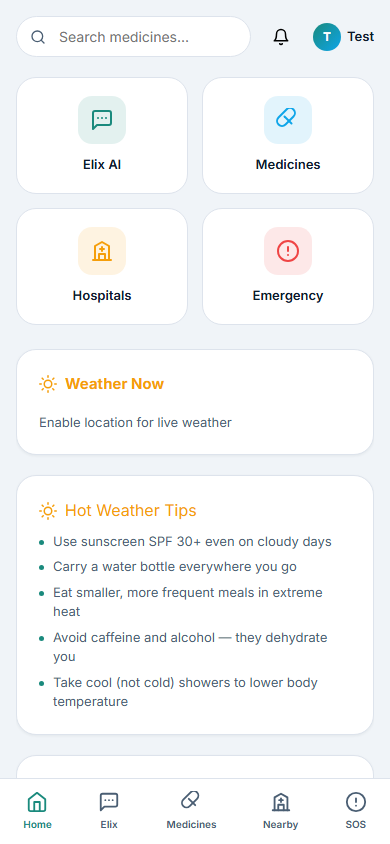
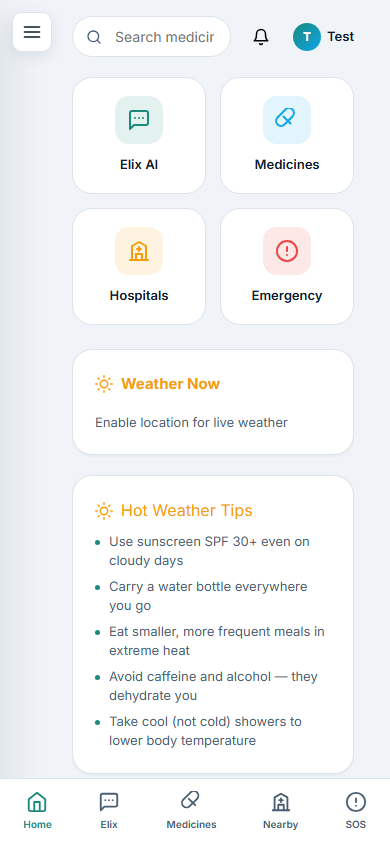
Mobile dashboard: show hamburger menu (with logout) on mobile by adding has-sidebar for dashboard route

diff --git a/frontend/js/app.js b/frontend/js/app.js
@@ -236,9 +236,11 @@ function render() {
   }
 
   /* sidebar body class —
-     dashboard has its own built-in icon sidebar, so aside sidebar only shows on
-     other logged-in pages (chat, medicines, hospitals, more, account) */
-  if (state.user && targetView !== "dashboard" && targetView !== "landing") {
+     dashboard has its own built-in icon sidebar on desktop, so aside sidebar only shows on
+     other logged-in pages. On mobile the icon sidebar is hidden, so we add has-sidebar
+     for the dashboard too, allowing the hamburger menu (with logout) to appear. */
+  const isMobile = window.innerWidth <= 768;
+  if (state.user && (targetView !== "dashboard" || isMobile) && targetView !== "landing") {
     document.body.classList.add("has-sidebar");
   } else {
     document.body.classList.remove("has-sidebar");
@@ -936,8 +938,10 @@ function renderDashboard() {
             <div class="chip-avatar">${state.user?.profile_photo ? `<img src="${escapeHtml(state.user.profile_photo)}" style="width:100%;height:100%;object-fit:cover;border-radius:50%">` : initials}</div>
             <span>${escapeHtml(displayName)}</span>
             <span class="chip-caret">▾</span>
-          </div>
+          </button>
         </div>
+      </div>
+
       </div>
 
       <div class="dash-quick-grid">
